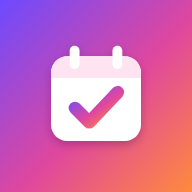
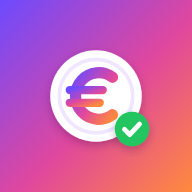
Icona B (moneta in euro) e cache v4
Claude-Session: https://claude.ai/code/session_01TfRGVyV1JPgupptEeU45bP

Changed region(s): [[0.25, 0.2188, 0.7812, 0.7812]]

diff --git a/sw.js b/sw.js
@@ -1,4 +1,4 @@
-const C='pagamenti-v3';
+const C='pagamenti-v4';
 const FILES=['./','./index.html','./manifest.webmanifest','./icon-192.png','./icon-512.png'];
 self.addEventListener('install',e=>{e.waitUntil(caches.open(C).then(c=>c.addAll(FILES)));self.skipWaiting();});
 self.addEventListener('activate',e=>{e.waitUntil(caches.keys().then(k=>Promise.all(k.filter(x=>x!==C).map(x=>caches.delete(x)))));self.clients.claim();});
